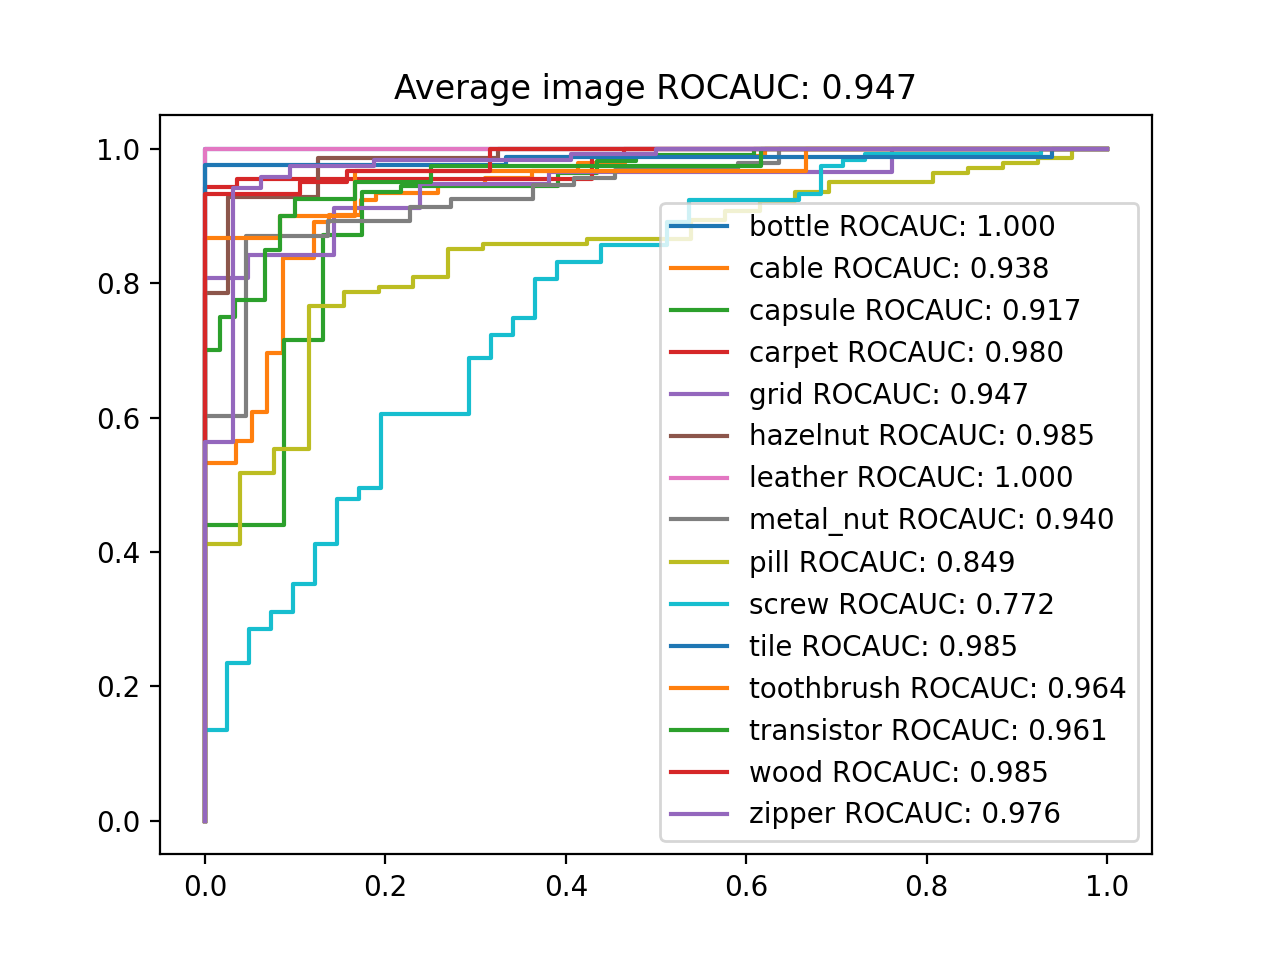
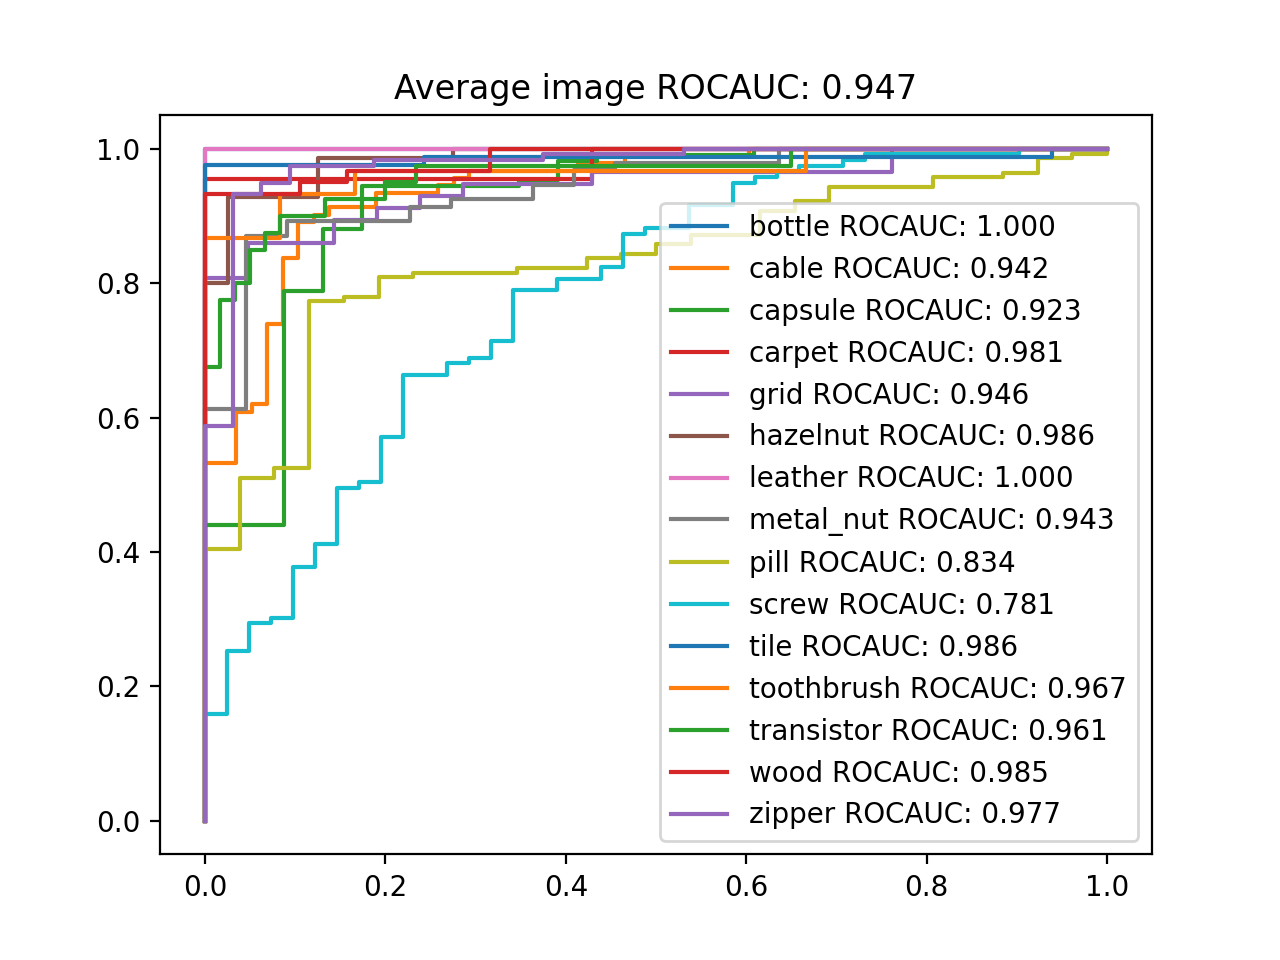
bug fix - feature extraction layer location changed

diff --git a/src/main.py b/src/main.py
@@ -131,8 +131,8 @@ class EfficientNetModified(EfficientNet):
             if drop_connect_rate:
                 drop_connect_rate *= float(idx) / len(self._blocks)
             x = block(x, drop_connect_rate=drop_connect_rate)
-            if x_prev.shape[1] != x.shape[1]:
-                feat_list.append(F.adaptive_avg_pool2d(x, 1))
+            if (x_prev.shape[1] != x.shape[1] and idx != 0) or idx == (len(self._blocks) - 1):
+                feat_list.append(F.adaptive_avg_pool2d(x_prev, 1))
             x_prev = x
 
         # Head

diff --git a/README.md b/README.md
@@ -35,20 +35,20 @@ Below is the implementation result of the test set ROCAUC on the `MVTec AD` data
 | | Paper | Implementation |
 | - | - | - |
 | bottle | - | 100.0 |
-| cable | - | 93.8 |
-| capsule | - | 91.7 |
-| carpet | - | 98.0 |
-| grid | - | 94.7 |
-| hazelnut | - | 98.5 |
+| cable | - | 94.2 |
+| capsule | - | 92.3 |
+| carpet | - | 98.1 |
+| grid | - | 94.6 |
+| hazelnut | - | 98.6 |
 | leather | - | 100.0 |
-| metal_nut | - | 94.0 |
-| pill | - | 84.9 |
-| screw | - | 77.2 |
-| tile | - | 98.5 |
-| toothbrush | - | 96.4 |
+| metal_nut | - | 94.3 |
+| pill | - | 83.4 |
+| screw | - | 78.1 |
+| tile | - | 98.6 |
+| toothbrush | - | 96.7 |
 | transistor | - | 96.1 |
 | wood | - | 98.5 |
-| zipper | - | 97.6 |
+| zipper | - | 97.7 |
 | Average | 94.8 | 94.7 |
 
 ### ROC Curve 
